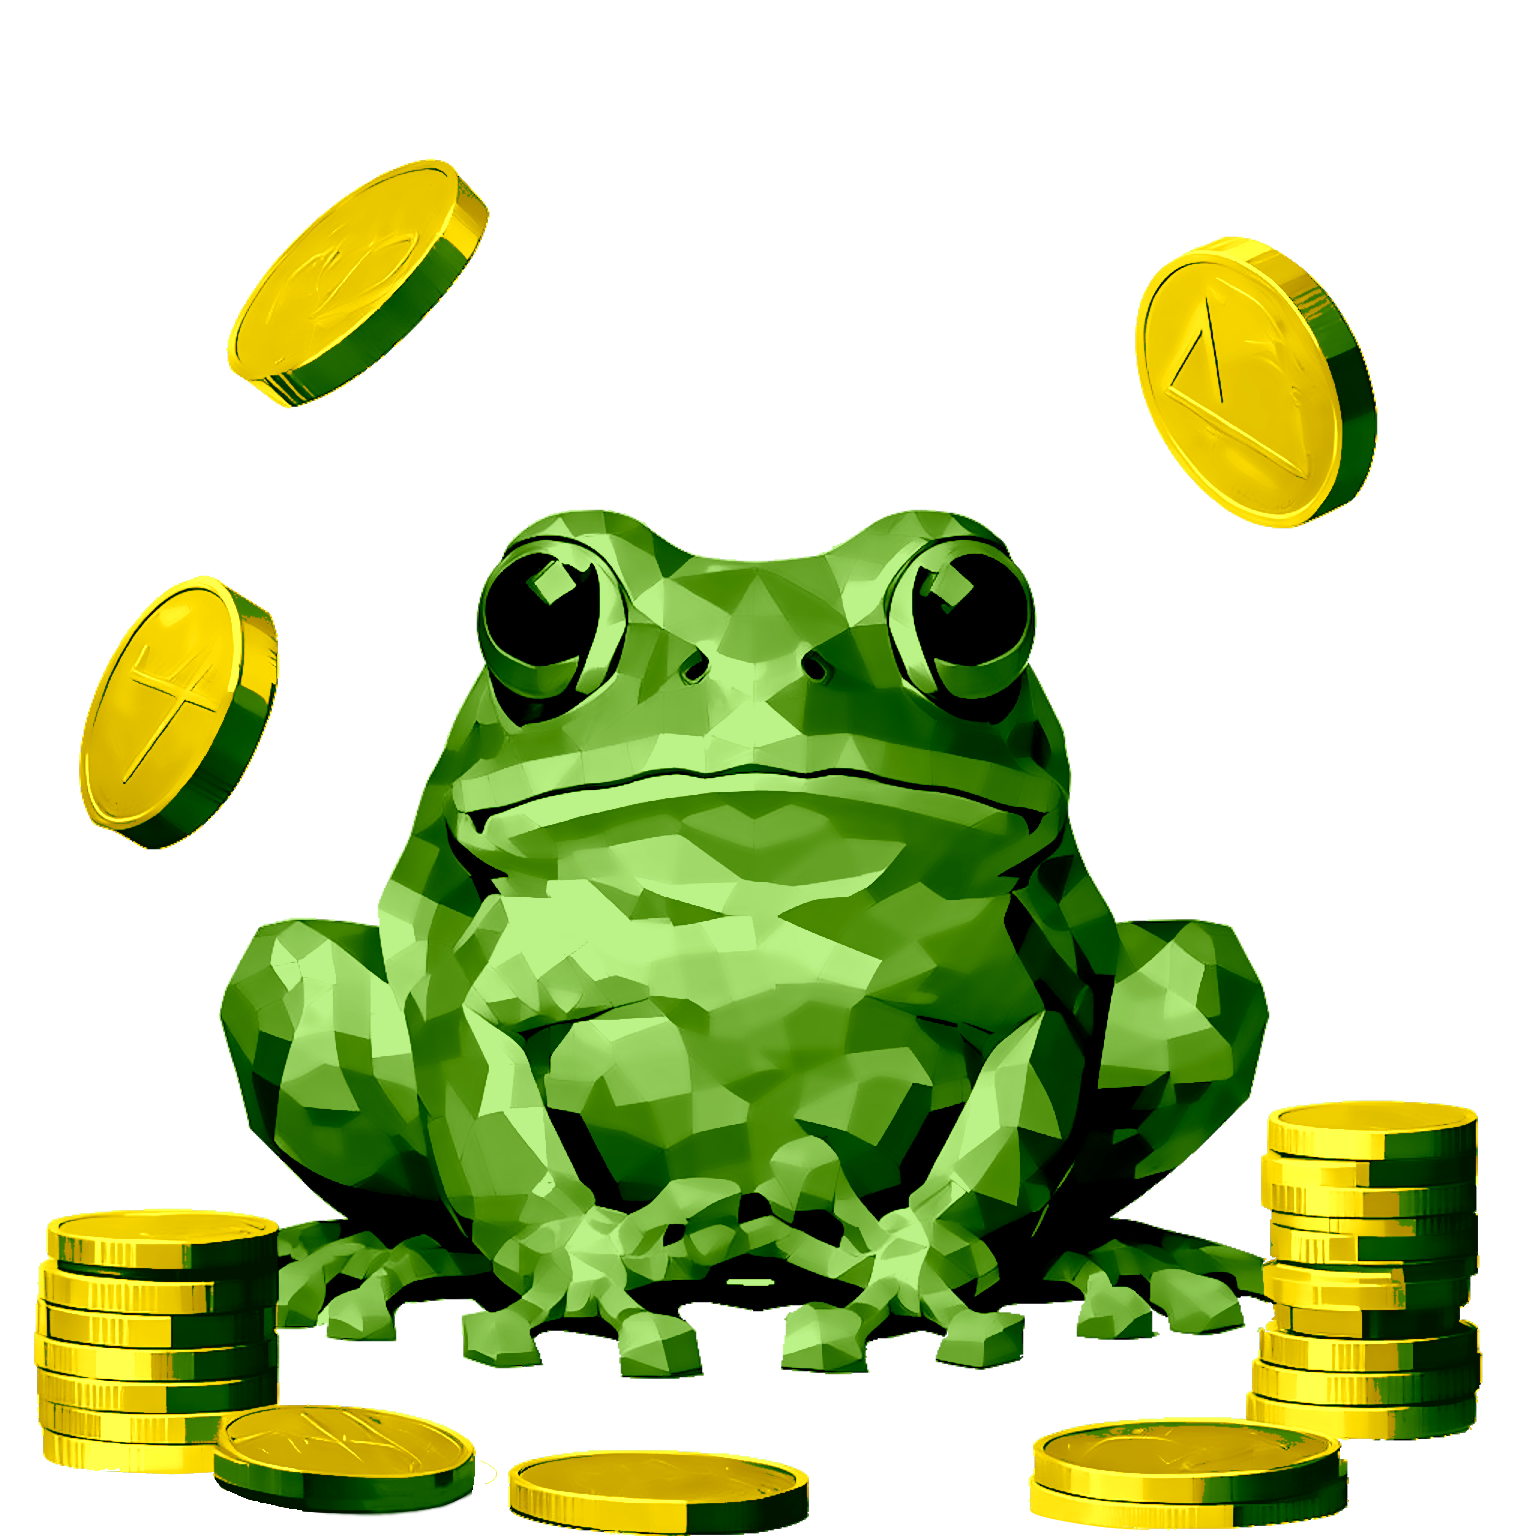
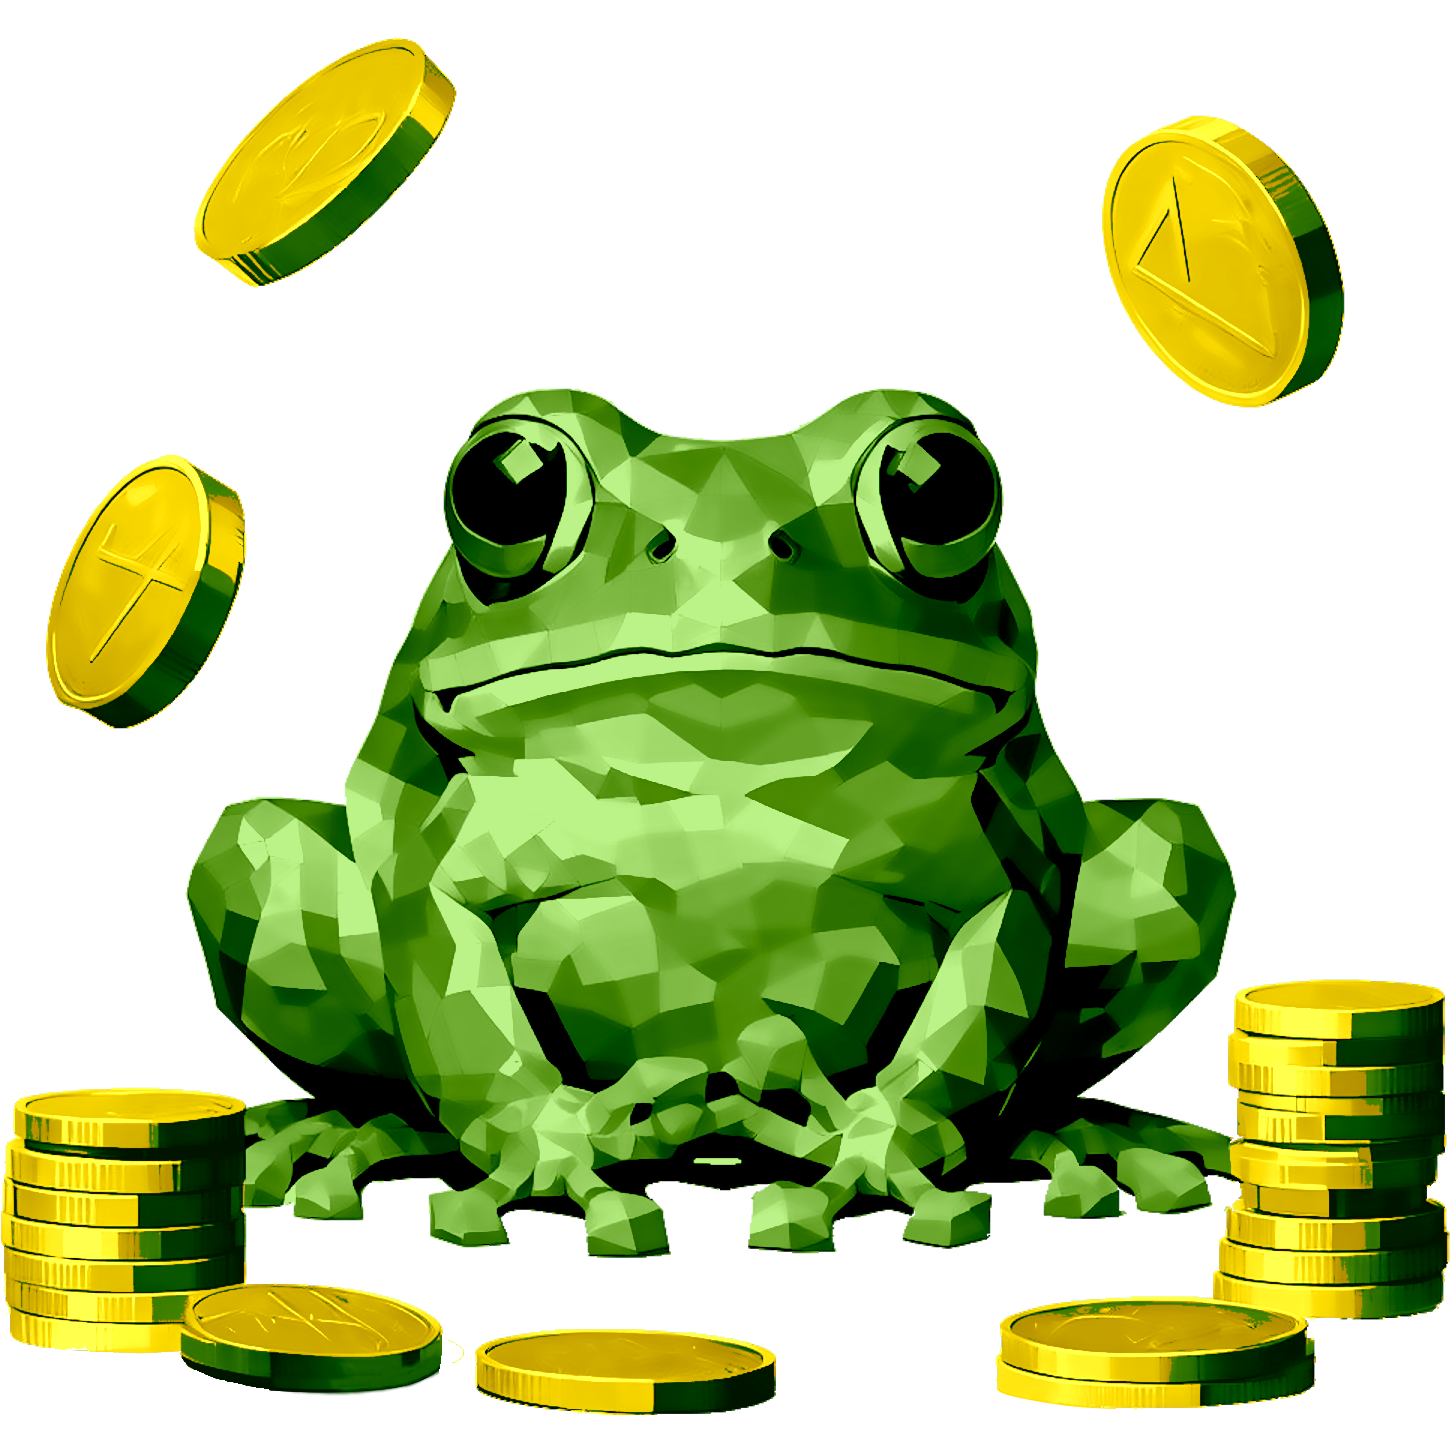
Updated Home, NotFound. Privacy. Progress in Project create step 2

diff --git a/moneyboard-client/src/pages/IfUser/Project/ProjectCreateStep2.js b/moneyboard-client/src/pages/IfUser/Project/ProjectCreateStep2.js
@@ -1,9 +1,173 @@
-import React from 'react';
+import React, { useEffect, useState } from 'react';
+import { useSelector } from 'react-redux';
+import { useNavigate, useParams } from 'react-router';
+import config from "../../../config"
+import { Button, Card, Col, Container, Form, FormControl, FormSelect, InputGroup, Row } from "react-bootstrap";
 
 const ProjectCreateStep2 = () => {
+    const [error, setError] = useState(null);
+    const navigate = useNavigate();
+
+    const [projectInfo, setProjectInfo] = useState(null);
+    const user = useSelector((state) => state.auth.user);
+    const { projectId } = useParams();
+
+    const [roles, setRoles] = useState([]);
+    const [isSubmitting, setIsSubmitting] = useState(false);
+
+    useEffect(() => {
+        const fetchProjectInfo = async () => {
+            try {
+                const response = await fetch(`${config.API_PROJECT_INFO}${projectId}`, {
+                    headers: {
+                        'accept': '*/*',
+                        'Authorization': `Bearer ${user.Token}`
+                    }
+                });
+                if (response.ok) {
+                    const data = await response.json();
+                    setProjectInfo(data);
+                } else {
+                    console.error('Error fetching project info:', response.statusText);
+                }
+            } catch (error) {
+                console.error('Error fetching project info:', error);
+            }
+        };
+
+        fetchProjectInfo();
+    }, [projectId]);
+
+    useEffect(() => {
+        const fetchRoles = async () => {
+            try {
+                const response = await fetch(`${config.API_ROLE_PROJECT}${projectId}`, {
+                    headers: {
+                        'accept': '*/*',
+                        'Authorization': `Bearer ${user.Token}`
+                    }
+                });
+                if (response.ok) {
+                    const data = await response.json();
+                    setRoles(data);
+                } else {
+                    console.error('Error fetching roles:', response.statusText);
+                }
+            } catch (error) {
+                console.error('Error fetching roles:', error);
+            }
+        };
+
+        fetchRoles();
+    }, [projectId]);
+
+    const handleRoleChange = (e, index, field) => {
+        const updatedRolesCopy = [...roles];
+        updatedRolesCopy[index][field] = e.target.value;
+        setRoles(updatedRolesCopy);
+    };
+
+    const handleSubmitRole = async (role) => {
+        setIsSubmitting(true);
+
+        try {
+            const response = await fetch(`${config.API_ROLE_EDIT}`, {
+                method: 'PUT',
+                headers: {
+                    'accept': '*/*',
+                    'Authorization': `Bearer ${user.Token}`,
+                    'Content-Type': 'application/json-patch+json',
+                },
+                body: JSON.stringify(role),
+            });
+            console.log(JSON.stringify(role));
+
+            if (response.ok) {
+                setError(null);
+                // Do something on success
+            } else {
+                const dataError = await response.json();
+                setError(dataError.error);
+                console.error(dataError.error);
+            }
+        } catch (error) {
+            console.error(error);
+            setError(error);
+        }
+
+        setIsSubmitting(false);
+    };
+
+    const handleSubmit = () => {
+        roles.forEach(role => {
+            handleSubmitRole(role);
+        });
+    };
+
+    if (!projectInfo) {
+        return <div>Loading...</div>;
+    }
+
+    if (projectInfo.IsOwner !== true) {
+        navigate(`/workspace`);
+    }
+
     return (
         <div>
-            <h1>Page 2</h1>
+            <div className='container col-sm-12 col-md-4 my-4'>
+                <div className="card p-4 pb-1 my-5 rounded-4 border-0 shadow-lg">
+                    <h1 className='text-center'>{projectInfo.Name}</h1>
+                    <h2 className='text-center'>Add Roles to your project</h2>
+                    <Form>
+                        <Container className="sm-col-12 md-col-11 px-sm-0 px-md-4">
+                            <ul>
+                                {roles.map((role, index) => (
+                                    <li key={index}>
+                                        <div className='d-flex justify-content-center my-3'>
+                                            <InputGroup>
+                                                <InputGroup.Text className='w-50'>Role Name:</InputGroup.Text>
+                                                <FormControl
+                                                    type="text"
+                                                    name="roleName"
+                                                    className="form-control"
+                                                    placeholder="Role Name"
+                                                    value={role.RoleName}
+                                                    onChange={(e) => handleRoleChange(e, index, 'RoleName')}
+                                                    required
+                                                />
+                                            </InputGroup>
+                                        </div>
+                                        <div className='d-flex justify-content-center my-3'>
+                                            <InputGroup>
+                                                <InputGroup.Text className='w-50'>Role Points:</InputGroup.Text>
+                                                <FormControl
+                                                    type="number"
+                                                    name="rolePoints"
+                                                    className="form-control"
+                                                    value={role.RolePoints}
+                                                    onChange={(e) => handleRoleChange(e, index, 'RolePoints')}
+                                                    required
+                                                />
+                                            </InputGroup>
+                                        </div>
+                                        <strong> Is Default:</strong> {role.IsDefolt ? 'Yes' : 'No'}
+                                    </li>
+                                ))}
+                            </ul>
+                        </Container>
+                        <div className='d-flex justify-content-center my-3'>
+                            <Button
+                                type='button'
+                                className='btn btn-primary col-8'
+                                onClick={handleSubmit}
+                                disabled={isSubmitting}
+                            >
+                                CreateS
+                            </Button>
+                        </div>
+                    </Form>
+                </div>
+            </div>
         </div>
     );
 };

diff --git a/moneyboard-client/src/pages/Public/Home.js b/moneyboard-client/src/pages/Public/Home.js
@@ -1,4 +1,4 @@
-import { Container, Row, Col, Carousel, Button } from 'react-bootstrap';
+import { Container, Row, Col, Carousel, Button, CarouselItem, Image } from 'react-bootstrap';
 import picture from '../../resources/Fillers/frog3.png';
 import { Link } from 'react-router-dom';
 import { useSelector } from 'react-redux';
@@ -7,43 +7,42 @@ const Home = () => {
     const user = useSelector((state) => state.auth.user);
     return (
         <div className='h-100'>
-            <Container>
-                <Row className='align-items-center my-5 h-100'>
-                    <Col xs={12} md={6} className='h-100'>
-                        <p className='fw-bold display-1'>Moneyboard</p>
-                        <h4 className='mt-4'>The best solution for money management</h4>
-                        <Carousel controls={false}>
-                            <Carousel.Item>
-                                <h4>Thesis 1</h4>
-                            </Carousel.Item>
-                            <Carousel.Item>
-                                <h4>Thesis 2</h4>
-                            </Carousel.Item>
-                            <Carousel.Item>
-                                <h4>Thesis 3</h4>
-                            </Carousel.Item>
-                        </Carousel>
-                        <div className='mt-4'>
-                            {user ? (
-                                <Link to='/workspace'>
-                                    <Button variant='success' className='btn-lg'>Get to work!</Button>
-                                </Link>
-                            ) : (
-                                <Link to='/login'>
-                                    <Button variant='success' className='btn-lg'>Get started!</Button>
-                                </Link>
-                            )}
-                        </div>
+            <Container className='h-100'>
+                <Row className='h-100'>
+                    <Col xs={12} md={6} className='d-flex align-items-center justify-content-center'>
+                        <Container>
+                            <p className='fw-bold display-1'>Moneyboard</p>
+                            <h4 className='mt-4'>The best solution for money management</h4>
+                            <Carousel controls={false}>
+                                <CarouselItem>
+                                    <h4>Thesis 1</h4>
+                                </CarouselItem>
+                                <CarouselItem>
+                                    <h4>Thesis 2</h4>
+                                </CarouselItem>
+                                <CarouselItem>
+                                    <h4>Thesis 3</h4>
+                                </CarouselItem>
+                            </Carousel>
+                            <div className='mt-4 w-100'>
+                                {user ? (
+                                    <Link to='/workspace'>
+                                        <Button variant='success' size="lg">Get to work!</Button>
+                                    </Link>
+                                ) : (
+                                    <Link to='/login'>
+                                        <Button variant='success' size="lg">Get started!</Button>
+                                    </Link>
+                                )}
+                            </div>
+                        </Container>
                     </Col>
-                    <Col xs={12} md={6} className='h-100'>
-                        <div className='d-flex justify-content-center mt-4'>
-                            <img
-                                src={picture}
-                                alt='picture'
-                                width='75%'
-                                className='d-flex justify-content-center'
-                            />
-                        </div>
+                    <Col xs={12} md={6} className='d-flex align-items-center justify-content-center'>
+                        <Image
+                            src={picture}
+                            alt='picture'
+                            width='75%'
+                            fluid />
                     </Col>
                 </Row>
             </Container>

diff --git a/moneyboard-client/src/pages/Public/Privacy.js b/moneyboard-client/src/pages/Public/Privacy.js
@@ -1,9 +1,33 @@
 import React from 'react';
+import { Col, Container, Row } from 'react-bootstrap';
 
 const Privacy = () => {
     return (
-        <div>
-            <p>Ooops!</p>
+        <div className='h-100'>
+            <Container className='h-100'>
+                <Row className='h-100'>
+                    <Col xs={12} className='d-flex align-items-center justify-content-center'>
+                        <Container className='bg-white border-0 rounded-4 shadow-lg p-5 col-sm-12 col-md-9'>
+                            <Container className='col-sm-12 col-md-10'>
+                                <h1 className='text-center'>Privacy Policy</h1>
+                                <h4 className='mt-5'>Moneyboard privacy policy</h4>
+                                <p>Your privacy is important to us. Our privacy policy provides you with information about how we collect, use, and protect your personal information when you use the Moneyboard website and its services.</p>
+                                <h4 className='mt-4'>Collection and use of information</h4>
+                                <p>We collect information that you provide to us when you register for an account on Moneyboard, including your name, email address, and contact information. We use this information to provide you with access to the features and functionality of our service.</p>
+                                <h4 className='mt-4'>Protection of personal information</h4>
+                                <p>We use our best efforts to protect your personal information from unauthorized access, loss, and unlawful use. However, by using our website, you understand and accept that you bear all risks of possible loss of data or other information.</p>
+                                <h4 className='mt-4'>Disclosure of information to third parties</h4>
+                                <p>We do not disclose your personal information to third parties without your permission, except as required by law.</p>
+                                <h4 className='mt-4'>Use of cookies</h4>
+                                <p>Moneyboard may use cookies to improve your user experience and provide you with personalized content.</p>
+                                <h4 className='mt-4'>Changes to this Privacy Policy</h4>
+                                <p>We may update this privacy policy from time to time. Please check this page periodically to stay informed of changes.</p>
+                                <p className='mt-5 text-center'>If you have any questions or comments regarding our privacy policy, please contact us at moneyboard@example.com <span className='small fw-semibold'>( ◠‿◠)/</span></p>
+                            </Container>
+                        </Container>
+                    </Col>
+                </Row>
+            </Container>
         </div>
     );
 }

diff --git a/moneyboard-client/src/pages/Public/NotFound.js b/moneyboard-client/src/pages/Public/NotFound.js
@@ -1,26 +1,27 @@
 import React from 'react';
 import picture from '../../resources/Fillers/frogCute.png';
-import { Col, Row } from 'react-bootstrap';
+import { Col, Container, Image, Row } from 'react-bootstrap';
 
 const NotFound = () => {
     return (
-        <div className='container d-flex align-items-center justify-content-center'>
-            <Row className='align-items-center my-4 h-100'>
-                <Col xs={12} md={6} className='d-flex justify-content-center mt-4'>
-                    <img
-                        src={picture}
-                        alt='picture'
-                        width='80%'
-                        className='d-flex justify-content-center'
-                    />
-                </Col>
-                <Col xs={12} md={6} className='d-flex align-items-center'>
-                    <div>
-                        <h2 className='mb-4'>Oops! This Page Doesn't Exist</h2>
-                        <p>It seems that the page you were trying to access doesn't exist. Please check the URL and try again.</p>
-                    </div>
-                </Col>
-            </Row>
+        <div className='h-100'>
+            <Container className='h-100'>
+                <Row className='h-100'>
+                    <Col xs={12} md={6} className='d-flex align-items-center justify-content-center'>
+                        <Image
+                            src={picture}
+                            alt='picture'
+                            width='75%'
+                            fluid />
+                    </Col>
+                    <Col xs={12} md={6} className='d-flex align-items-center justify-content-center'>
+                        <Container>
+                            <h1>Oops! This Page Doesn't Exist</h1>
+                            <p className='mt-4'>It seems that the page you were trying to access doesn't exist. Please check the URL and try again.</p>
+                        </Container>
+                    </Col>
+                </Row>
+            </Container>
         </div>
     );
 };

diff --git a/moneyboard-client/src/config.js b/moneyboard-client/src/config.js
@@ -3,6 +3,7 @@ const LOCALHOST_URL = 'https://localhost:44339/';
 const AUTH = 'api/Authentication/';
 const PROJECT = 'api/Project/';
 const USER = 'api/User/';
+const ROLE = 'api/Role/';
 
 const API_AUTH_REG = LOCALHOST_URL + AUTH + 'registration';
 const API_AUTH_LOGIN = LOCALHOST_URL + AUTH + 'login';
@@ -17,6 +18,9 @@ const API_PROJECT_MEMBER_LIST = LOCALHOST_URL + PROJECT + 'member';
 const API_PROJECT_INFO = LOCALHOST_URL + PROJECT + 'info' + '/';
 const API_PROJECT_ADD_MEMBER =  LOCALHOST_URL + PROJECT + 'add-member' + '/'
 
+const API_ROLE_PROJECT = LOCALHOST_URL + ROLE + 'project' + '/'
+const API_ROLE_EDIT =  LOCALHOST_URL + ROLE + 'edit'
+
 const config = {
     LOCALHOST_URL,
     API_AUTH_REG,
@@ -28,7 +32,9 @@ const config = {
     API_PROJECT_OWNER_LIST,
     API_PROJECT_MEMBER_LIST,
     API_PROJECT_INFO,
-    API_PROJECT_ADD_MEMBER
+    API_PROJECT_ADD_MEMBER,
+    API_ROLE_PROJECT,
+    API_ROLE_EDIT
 };
 
 export default config;

diff --git a/moneyboard-client/src/pages/IfUser/Invite.js b/moneyboard-client/src/pages/IfUser/Invite.js
@@ -4,12 +4,8 @@ import { useNavigate, useParams } from 'react-router';
 import config from "../../config";
 
 const Invite = () => {
-
     const [error, setError] = useState(null);
-
-
     const navigate = useNavigate();
-
 
     const [projectInfo, setProjectInfo] = useState(null);
     const user = useSelector((state) => state.auth.user);
